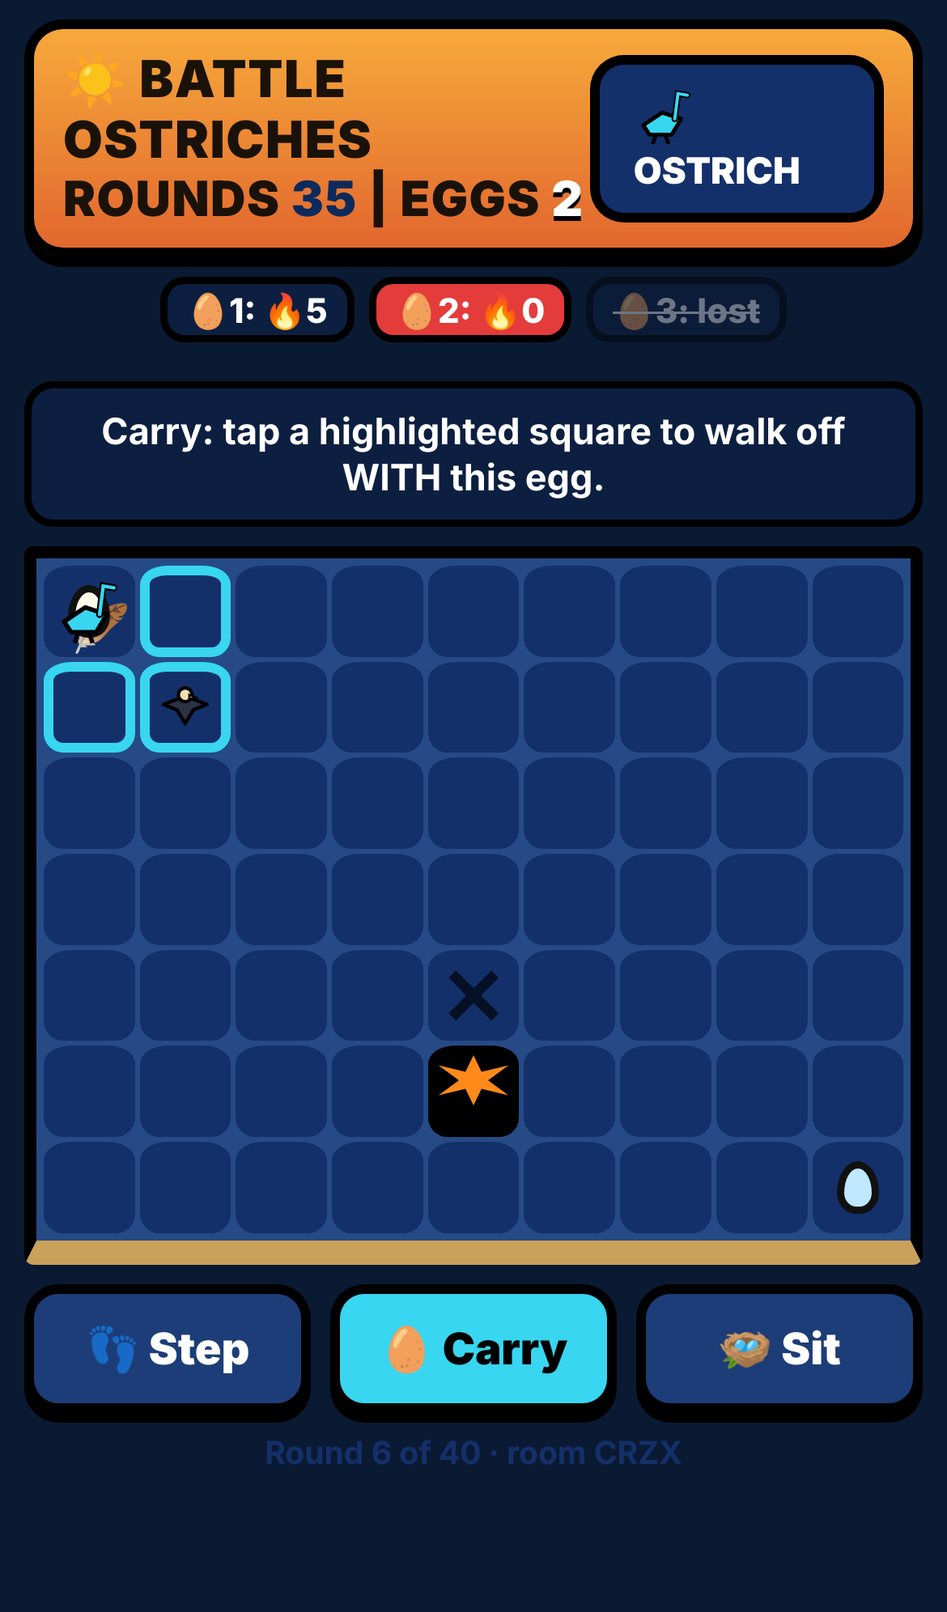
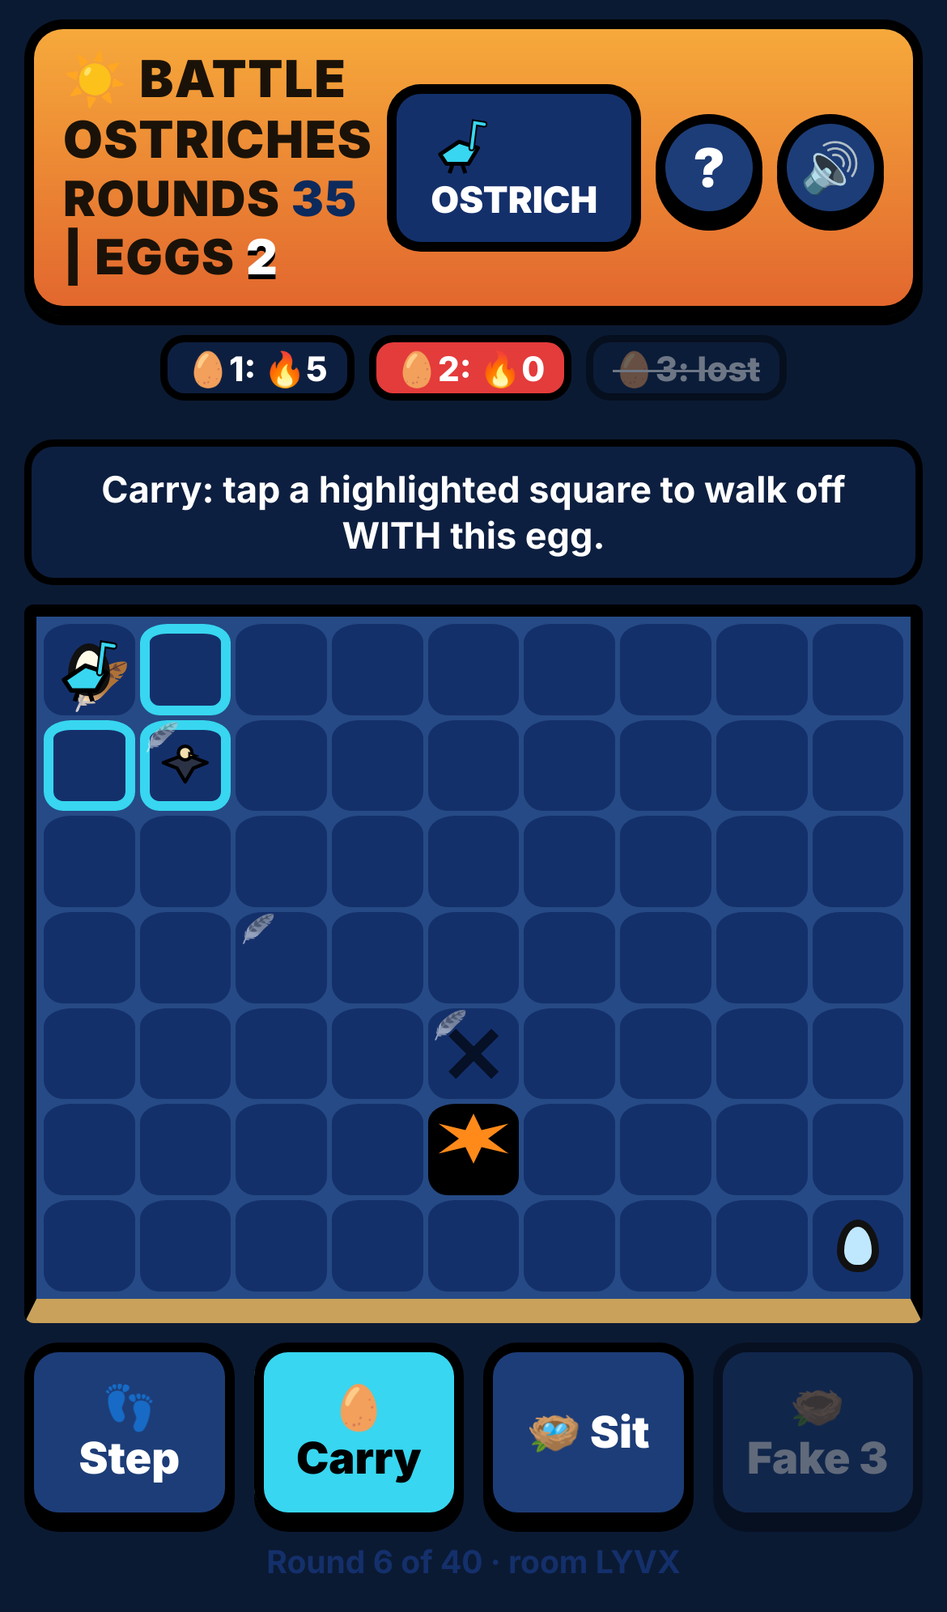
Fake nests, smell on landing, stone-free set-down, vulture tracks for ostrich; tutorial + sounds

diff --git a/public/ui.js b/public/ui.js
@@ -49,11 +49,13 @@ function sounds(prev){if(!prev)return;const blue=S.role==='blue';
  if(S.phase==='over'&&prev.phase!=='over')return SFX.play(S.winner===S.role?'win':'lose');
  if(prev.phase.startsWith('setup')&&S.phase===prev.phase&&blue)SFX.play('place');
  const la=S.lastAction;
- if(prev.turn==='red'&&S.turn==='blue'&&la&&prev.phase==='play')SFX.play(la.type==='fly'?(la.spotted?'warn':'fly'):la.result==='hit'?'crack':la.result==='feather'?'feather':'miss');
+ if(prev.turn==='red'&&S.turn==='blue'&&la&&prev.phase==='play')SFX.play(la.type==='fly'?(la.spotted?'warn':'fly'):la.result==='fake'?'scrape':la.result==='hit'?'crack':la.result==='feather'?'feather':'miss');
  if(prev.turn==='blue'&&S.turn==='red'&&prev.phase==='play')setTimeout(()=>SFX.play('step'),blue?0:0);
  if(S.lastCold&&prev.round!==S.round)setTimeout(()=>SFX.play('cold'),400);
  else if(blue&&S.myTurn&&S.eggs&&S.eggs.some(e=>e.alive&&e.coldIn<=1))setTimeout(()=>SFX.play('warn'),700);
- if(S.myTurn&&!prev.myTurn&&S.phase==='play')setTimeout(()=>SFX.play('turn'),450);}
+ if(S.myTurn&&!prev.myTurn&&S.phase==='play')setTimeout(()=>SFX.play('turn'),450);
+ if(!blue&&la&&la.type==='fly'&&prev.turn==='red'&&S.turn==='blue')setTimeout(()=>SFX.play(la.smell?'sniffYes':'sniffNo'),350);
+ if(blue&&prev.fakesLeft>S.fakesLeft)SFX.play('scrape');}
 const roomQ=new URLSearchParams(location.search).get('room');
 if(!roomQ)TUT.firstVisit();
 if(roomQ){$('codeIn').value=roomQ;open({t:'join',code:roomQ,token:me.code===roomQ.toUpperCase()?me.token:undefined});}
@@ -83,6 +85,11 @@ function render(prev){
   const m=S.marks[k];if(m)d.classList.add(m);
   if(lk.has(k)||(setup&&!eggAt[k]&&(S.phase==='setupOstrich'||k!==key(S.vulture))))d.classList.add('legal');
   const n=prints[k];if(!blue&&n&&m!=='hit'){d.style.background=`rgb(${110+n/maxP*120|0},${34+n/maxP*60|0},34)`;d.innerHTML+=`<span class="num">👣${n>1?n:''}</span>`;}
+  if(blue&&S.vtracks&&S.vtracks[k])d.innerHTML+=`<span class="vtr" style="opacity:${Math.min(1,.35+S.vtracks[k]*.2)}">🪶${S.vtracks[k]>1?S.vtracks[k]:''}</span>`;
+  if(blue&&S.nestOk&&S.nestOk.some(q=>key(q)===k))d.classList.add('nestok');
+  if(blue&&S.can&&S.can.down&&S.ostrich&&k===key(S.ostrich))d.classList.add('nestok');
+  if(blue&&(S.fakes||[]).some(f=>key(f)===k))d.innerHTML+='<span class="fakeic">🪹</span>';
+  if(!blue&&S.smells&&k in S.smells)d.innerHTML+=`<span class="smell ${S.smells[k]?'yes':'no'}">${S.smells[k]?'👃':'·'}</span>`;
   const e=eggAt[k];if(e)d.innerHTML+=`<div class="egg${e.coldIn<=2?' cold':''}"></div>`;
   if(k===key(S.vulture))d.innerHTML+=`<div class="pc" style="background:none;border:0${blue?';width:60%;height:60%':''}">${VUL}</div>`;
   if(S.ostrich&&k===key(S.ostrich))d.innerHTML+=`<div class="pc" style="background:none;border:0">${OST}${S.carrying!==null?'<span style="position:absolute;right:-4px;bottom:-4px;font-size:.6em">🥚</span>':''}</div>`;
@@ -94,18 +101,19 @@ function render(prev){
  else if(S.phase==='setupOstrich')h=blue?'Tap where your ostrich starts (on an egg to start warming it).':'The ostrich is hiding its eggs…';
  else if(S.phase==='play'&&!S.myTurn)h=blue?'Vulture\'s turn — watch the sky…':'Ostrich\'s turn — it\'s moving somewhere…';
  else if(S.phase==='play'&&blue){
-  a.innerHTML=`<button class="${M==='step'?'on':''}" onclick="UI.setMode('step')">👣 Step</button>`+(S.carrying===null?`<button ${S.can.carry?'':'disabled'} class="${M==='carry'?'on':''}" onclick="UI.setMode('carry')">🥚 Carry</button><button ${S.can.sit?'':'disabled'} onclick="UI.act('sit')">🪺 Sit</button>`:`<button ${S.can.down?'':'disabled'} onclick="UI.act('down')">⬇ Set down</button>`);
-  h=M==='carry'?'Carry: tap a highlighted square to walk off WITH this egg.':S.carrying!==null?'Carrying an egg (it is cooling). Step, or Set down here (takes your turn).':S.mustLeave?`Hungry! ${C.maxSit} rounds on this egg — step off to feed.`:S.onEgg?'On an egg (warm & safe). Sit, Carry it, or Step off.':'Step: tap a highlighted square.';
+  a.innerHTML=`<button class="${M==='step'?'on':''}" onclick="UI.setMode('step')">👣 Step</button>`+(S.carrying===null?`<button ${S.can.carry?'':'disabled'} class="${M==='carry'?'on':''}" onclick="UI.setMode('carry')">🥚 Carry</button><button ${S.can.sit?'':'disabled'} onclick="UI.act('sit')">🪺 Sit</button><button ${S.can.scrape?'':'disabled'} onclick="UI.act('scrape')">🪹 Fake ${S.fakesLeft}</button>`:`<button ${S.can.down?'':'disabled'} onclick="UI.act('down')">⬇ Set down</button>`);
+  h=M==='carry'?'Carry: tap a highlighted square to walk off WITH this egg.':S.carrying!==null?(S.can.down?'Carrying an egg (cooling). Set down here, or Step.':'Carrying an egg (cooling). A stone has hit this square: you can\'t nest here.')+' Green rings = stone-free squares where you could set it down.':S.mustLeave?`Hungry! ${C.maxSit} rounds on this egg — step off to feed.`:S.onEgg?'On an egg (warm & safe). Sit, Carry it, or Step off.':`Step: tap a highlighted square. Or scrape a fake nest here (${S.fakesLeft} left).`;
  } else if(S.phase==='play'){
   a.innerHTML=`<button class="${M==='fly'?'on':''}" onclick="UI.setMode('fly')">🪽 Fly</button><button class="${M==='throw'?'on':''}" onclick="UI.setMode('throw')">🪨 Throw</button>`;
   h=M==='fly'?`Fly up to ${C.vultureFly} squares (reveals nothing). Darker 👣 = more ostrich traffic.`:'Throw a stone at your square or a neighbour. Repeats allowed.';}
  // event line
  let ev='';const la=S.lastAction;
- if(prev&&la&&prev.turn==='red'&&S.turn==='blue'&&la.type==='throw')ev=la.result==='hit'?'💥 SMASH! An egg was broken.':la.result==='feather'?(blue?'🪶 A stone hit you — your egg was safe.':'🪶 Feathers! An ostrich was guarding an egg there.'):'✕ Stone missed.';
+ if(prev&&la&&prev.turn==='red'&&S.turn==='blue'&&la.type==='throw')ev=la.result==='fake'?(blue?'🪹 The vulture stoned one of your fake nests.':'🪹 Just an empty scrape — a fake nest!'):la.result==='hit'?'💥 SMASH! An egg was broken.':la.result==='feather'?(blue?'🪶 A stone hit you — your egg was safe.':'🪶 Feathers! An ostrich was guarding an egg there.'):'✕ Stone missed.';
  else if(prev&&la&&prev.turn==='red'&&S.turn==='blue'&&la.spotted)ev=blue?'👁 The vulture SPOTTED an egg! Sit on it or carry it away now.':'';
  else if(prev&&la&&prev.turn==='red'&&S.turn==='blue'&&blue)ev='The vulture flew.';
  if(S.lastCold&&prev&&prev.round!==S.round)ev+=` ❄ ${S.lastCold} egg(s) went cold!`;
- if(!blue&&S.myTurn&&la&&la.spotted&&S.marks[key(la.spotted)]==='spotted'&&key(la.spotted)===key(S.vulture))ev='👁 You spotted an egg right here! Throw at it now.';
+ if(!blue&&S.myTurn&&la&&la.type==='fly'&&key(S.vulture)&&prev&&prev.turn==='blue')ev=(la.fake?'🪹 This scrape is empty — a fake nest! ':'')+(la.smell?'👃 You smell eggs nearby! (within '+C.smellRange+' squares)':'· No scent here.')+(la.spotted?' 👁 And you spotted an egg right here — throw!':'');
+ if(!blue&&S.myTurn&&la&&la.spotted&&!ev&&S.marks[key(la.spotted)]==='spotted'&&key(la.spotted)===key(S.vulture))ev='👁 You spotted an egg right here! Throw at it now.';
  $('hint').textContent=h;$('log').textContent=ev||(S.phase==='play'?`Round ${S.round} of ${C.rounds} · room ${S.code}${S.opponent?'':' · opponent offline'}`:'');
  const o=$('over');if(S.phase==='over'){const won=S.winner===S.role;o.classList.remove('hidden');
   o.innerHTML=`<div class="lobbybox"><div class="bigost">${S.winner==='blue'?OST:VUL}</div><h1>${won?'You win!':'You lose'}</h1><p>${S.winner==='blue'?`The ostrich kept ${S.eggsLeft} egg(s) alive for ${C.rounds} rounds.`:`The vulture got every egg by round ${S.round}.`}</p><button class="big" onclick="UI.rematch()">Rematch</button><button class="big ghost" onclick="UI.menu()">Menu</button></div>`;}

diff --git a/game.js b/game.js
@@ -8,6 +8,10 @@ const CONFIG = {
   vultureFly: 2,       // vulture flies up to N squares (king-move distance)
   throwRange: 1,       // vulture throws at own square or within N
   vultureStart: [4, 3],
+  fakeNests: 3,        // decoy scrapes the ostrich may make per game
+  scrapeDepth: 2,      // footprint depth a scrape (fake or sat-on nest) adds
+  sitDepth: 1,         // footprint depth added each round the ostrich sits on a real egg
+  smellRange: 2,       // after landing, vulture learns if any egg is within N squares (yes/no)
 };
 const dist = (a, b) => Math.max(Math.abs(a[0] - b[0]), Math.abs(a[1] - b[1]));
 const key = (p) => p[0] + ',' + p[1];
@@ -16,7 +20,7 @@ const inB = (p, c = CONFIG) => p[0] >= 0 && p[1] >= 0 && p[0] < c.cols && p[1] <
 function newGame(cfg = CONFIG) {
   return { cfg, phase: 'setupEggs', round: 1, turn: 'blue', eggs: [], ostrich: null,
     carrying: null, sitEgg: null, sitCount: 0, vulture: cfg.vultureStart.slice(),
-    prints: {}, marks: {}, log: [], winner: null };
+    prints: {}, marks: {}, fakes: [], smells: {}, thrown: {}, vtracks: {}, log: [], winner: null };
 }
 function eggAt(g, p) { return g.eggs.find(e => e.alive && e.pos && key(e.pos) === key(p)); }
 function aliveEggs(g) { return g.eggs.filter(e => e.alive); }
@@ -52,7 +56,8 @@ function ostrichMoves(g, carry = false) {
 function canPickUp(g) { // standing on a placed egg, not carrying
   return g.phase === 'play' && g.turn === 'blue' && g.carrying === null && g.sitEgg !== null;
 }
-function canSetDown(g) { return g.phase === 'play' && g.turn === 'blue' && g.carrying !== null && !eggAt(g, g.ostrich); }
+function stoneFree(g, p) { return !g.thrown[key(p)]; }
+function canSetDown(g) { return g.phase === 'play' && g.turn === 'blue' && g.carrying !== null && !eggAt(g, g.ostrich) && stoneFree(g, g.ostrich); }
 function ostrichStep(g, p, carry = false) {
   if (carry && !canPickUp(g)) return false;
   if (!ostrichMoves(g, carry).some(q => key(q) === key(p))) return false;
@@ -69,7 +74,12 @@ function ostrichSetDown(g) {
   g.sitEgg = e.id; g.sitCount = 0; endOstrich(g); return true;
 }
 function canSit(g) { return g.phase === 'play' && g.turn === 'blue' && g.carrying === null && g.sitEgg !== null && g.sitCount < g.cfg.maxSit; }
-function ostrichSit(g) { if (!canSit(g)) return false; endOstrich(g); return true; }
+function ostrichSit(g) { if (!canSit(g)) return false; addPrint(g, g.ostrich, g.cfg.sitDepth); endOstrich(g); return true; }
+function addPrint(g, p, n) { g.prints[key(p)] = (g.prints[key(p)] || 0) + n; }
+function fakeAt(g, p) { return g.fakes.some(f => key(f) === key(p)); }
+function canScrape(g) { return g.phase === 'play' && g.turn === 'blue' && g.fakes.length < g.cfg.fakeNests && !eggAt(g, g.ostrich) && !fakeAt(g, g.ostrich) && g.carrying === null; }
+function ostrichScrape(g) { if (!canScrape(g)) return false; g.fakes.push(g.ostrich.slice()); addPrint(g, g.ostrich, g.cfg.scrapeDepth); endOstrich(g); return true; }
+function smellsEgg(g, p) { return aliveEggs(g).some(e => { const q = e.pos || (g.carrying === e.id ? g.ostrich : null); return q && dist(q, p) <= g.cfg.smellRange; }); }
 function mustLeave(g) { return g.sitEgg !== null && g.sitCount >= g.cfg.maxSit; }
 function endOstrich(g) {
   if (g.sitEgg !== null) { g.sitCount++; g.eggs[g.sitEgg].lastWarm = g.round; }
@@ -95,9 +105,12 @@ function throwTargets(g) {
 function vultureFly(g, p) {
   if (!flyTargets(g).some(q => key(q) === key(p))) return false;
   g.vulture = p.slice(); g.lastAction = { type: 'fly' };
+  g.vtracks[key(p)] = (g.vtracks[key(p)] || 0) + 1;
   // Landing on an unguarded, uncarried egg spots it. The mark stays even if the egg later moves (stale).
   const e = eggAt(g, p);
-  if (e && key(p) !== key(g.ostrich)) { g.marks[key(p)] = 'spotted'; g.lastAction.spotted = p.slice(); } g.turn = 'blue'; return true;
+  if (e && key(p) !== key(g.ostrich)) { g.marks[key(p)] = 'spotted'; g.lastAction.spotted = p.slice(); }
+  else if (!e && fakeAt(g, p)) { g.marks[key(p)] = 'fake'; g.lastAction.fake = p.slice(); }
+  const sm = smellsEgg(g, p); g.smells[key(p)] = sm; g.lastAction.smell = sm; g.turn = 'blue'; return true;
 }
 function vultureThrow(g, p) {
   if (!throwTargets(g).some(q => key(q) === key(p))) return false;
@@ -105,7 +118,9 @@ function vultureThrow(g, p) {
   const guarded = key(p) === key(g.ostrich);
   if (guarded && (e || g.carrying !== null)) result = 'feather';
   else if (e) { e.alive = false; result = 'hit'; if (g.sitEgg === e.id) { g.sitEgg = null; g.sitCount = 0; } }
+  else if (fakeAt(g, p)) result = 'fake';
   else result = 'miss';
+  g.thrown[key(p)] = (g.thrown[key(p)] || 0) + 1;
   g.marks[key(p)] = result; g.lastAction = { type: 'throw', p: p.slice(), result };
   if (!aliveEggs(g).length) { g.winner = 'red'; g.phase = 'over'; } else g.turn = 'blue';
   return result;
@@ -124,6 +139,6 @@ function endRound(g) {
 }
 function coldIn(g, e) { return g.cfg.warmth - (g.round - e.lastWarm); } // rounds left before going cold
 
-const API = { CONFIG, newGame, placeEgg, placeOstrich, ostrichMoves, ostrichStep, ostrichSetDown, canPickUp, canSit, ostrichSit,
+const API = { CONFIG, newGame, placeEgg, placeOstrich, ostrichMoves, ostrichStep, ostrichSetDown, canPickUp, canSit, ostrichSit, canScrape, ostrichScrape, fakeAt, smellsEgg, stoneFree,
   canCarryNow, canSetDown, mustLeave, flyTargets, throwTargets, vultureFly, vultureThrow, eggAt, aliveEggs, coldIn, key, dist };
 if (typeof module !== 'undefined') module.exports = API; else window.BO = API;

diff --git a/test.js b/test.js
@@ -25,4 +25,28 @@ t('fly onto unguarded egg spots it; ostrich can react; mark goes stale',()=>{con
  const h=B.newGame();B.placeEgg(h,[5,3]);B.placeEgg(h,[0,0]);B.placeEgg(h,[8,6]);B.placeOstrich(h,[5,3]);assert(B.vultureFly(h,[5,3]));assert.equal(h.marks['5,3'],undefined);
  // unreacted: throw next turn smashes it
  const k=B.newGame();B.placeEgg(k,[5,3]);B.placeEgg(k,[0,0]);B.placeEgg(k,[8,6]);B.placeOstrich(k,[0,0]);B.vultureFly(k,[5,3]);B.ostrichSit(k);assert.equal(B.vultureThrow(k,[5,3]),'hit');});
+t('fake nests: deep tracks, one per square, revealed by landing',()=>{const g=B.newGame();B.placeEgg(g,[0,0]);B.placeEgg(g,[8,6]);B.placeEgg(g,[8,0]);B.placeOstrich(g,[3,3]);
+ B.vultureFly(g,[4,1]);const before=g.prints['3,3'];assert(B.ostrichScrape(g));assert.equal(g.prints['3,3'],before+B.CONFIG.scrapeDepth);assert(!B.ostrichScrape(g),'not on vulture turn');
+ assert(B.vultureFly(g,[3,3]));assert.equal(g.marks['3,3'],'fake');assert.deepEqual(g.lastAction.fake,[3,3]);
+ assert(!B.canScrape(g),'already a fake here');assert(B.ostrichStep(g,[3,4]));});
+t('fake nest limit from CONFIG; not on egg squares',()=>{const cfg={...B.CONFIG,warmth:99};const g=B.newGame(cfg);B.placeEgg(g,[0,0]);B.placeEgg(g,[8,6]);B.placeEgg(g,[8,0]);B.placeOstrich(g,[3,3]);
+ const steps=[[3,4],[3,5],[4,5]];let made=0,r=0;
+ for(let i=0;i<8;i++){B.vultureFly(g,r++%2?[6,1]:[5,1]);if(B.ostrichScrape(g))made++;else B.ostrichStep(g,steps.shift()||[4,4]);}
+ assert.equal(made,cfg.fakeNests);
+ const h=B.newGame();B.placeEgg(h,[3,3]);B.placeEgg(h,[8,6]);B.placeEgg(h,[8,0]);B.placeOstrich(h,[3,3]);B.vultureFly(h,[5,1]);assert(!B.canScrape(h));});
+t('throw at unguarded fake reveals fake',()=>{const g=B.newGame();B.placeEgg(g,[0,0]);B.placeEgg(g,[8,6]);B.placeEgg(g,[8,0]);B.placeOstrich(g,[4,4]);
+ B.vultureFly(g,[4,2]);B.ostrichScrape(g);B.vultureFly(g,[4,3]);B.ostrichStep(g,[5,5]);assert.equal(B.vultureThrow(g,[4,4]),'fake');assert.equal(g.marks['4,4'],'fake');});
+t('smell: yes/no within range after landing, includes carried eggs',()=>{const g=B.newGame();B.placeEgg(g,[0,0]);B.placeEgg(g,[1,0]);B.placeEgg(g,[2,0]);B.placeOstrich(g,[8,6]);
+ B.vultureFly(g,[4,1]);assert.equal(g.lastAction.smell,true);assert.equal(g.smells['4,1'],true);
+ B.ostrichStep(g,[7,6]);B.vultureFly(g,[6,3]);assert.equal(g.lastAction.smell,false);assert.equal(g.smells['6,3'],false);
+ const h=B.newGame();B.placeEgg(h,[8,6]);B.placeEgg(h,[0,6]);B.placeEgg(h,[0,0]);B.placeOstrich(h,[8,6]);B.vultureFly(h,[5,4]);B.ostrichStep(h,[7,5],true);
+ B.vultureFly(h,[5,3]);assert.equal(h.lastAction.smell,true,'carried egg 2 away');});
+t('sitting deepens the nest tracks',()=>{const g=setup();const a=g.prints['0,0']||0;B.ostrichSit(g);assert.equal(g.prints['0,0'],a+1);});
+t('set down only where no stone was ever thrown',()=>{const g=setup();B.ostrichStep(g,[1,1],true);
+ B.vultureFly(g,[2,2]);assert(B.canSetDown(g));B.ostrichStep(g,[1,2]);
+ assert.equal(B.vultureThrow(g,[2,3]),'miss');B.ostrichStep(g,[2,3]);B.vultureFly(g,[3,2]);assert.equal(g.turn,'blue');assert(!B.canSetDown(g),'stone square');assert(!B.ostrichSetDown(g));
+ B.ostrichStep(g,[3,3]);B.vultureFly(g,[4,3]);assert(B.canSetDown(g));assert(!B.stoneFree(g,[2,3]));});
+t('vulture landing tracks deepen; no signal when eggs move',()=>{const g=setup();B.ostrichStep(g,[1,1],true);
+ assert.equal(g.vtracks['4,2'],1);B.vultureFly(g,[4,3]);B.ostrichStep(g,[1,2]);B.vultureFly(g,[4,2]);assert.equal(g.vtracks['4,2'],2);
+ assert.deepEqual(Object.keys(g.lastAction).sort(),['smell','type']);});
 console.log(n+' tests passed');

diff --git a/public/tutorial.js b/public/tutorial.js
@@ -9,11 +9,13 @@ const STEPS=[
  {r:'blue',img:'warmth',t:'Keep every egg warm',d:`Each egg's 🔥 timer counts down. Sit on it at least once every ${C.warmth} rounds or it goes cold and is lost. The egg you stand on can't be smashed.`},
  {r:'blue',img:'feeding',t:'Sit, then go feed',d:`Sit stays on an egg. After ${C.maxSit} rounds in a row on the same egg you get hungry and must step off.`},
  {r:'blue',img:'carry',t:'Carry an egg',d:'On an egg, tap Carry, then a square: you walk off holding it. It is safe with you but cools down. Every other turn: Step one square in any direction.'},
- {r:'blue',img:'setdown',t:'Set it down',d:'Tap Set down to place the egg on your square. It takes your whole turn. Hide it somewhere the vulture already searched! If the vulture lands on an unguarded egg it is spotted (👁): sit on it or carry it away right away.'},
+ {r:'blue',img:'setdown',t:'Set it down',d:'Tap Set down to place the egg on your square (takes your whole turn). Only squares no stone has ever hit are allowed; green rings show them. The vulture is never told an egg moved — it only has your footprints. If the vulture lands on an unguarded egg it is spotted (👁): sit on it or carry it away right away.'},
+ {r:'blue',img:'fake',t:'Scrape fake nests',d:`Tap Fake to scrape a decoy nest on your empty square (${C.fakeNests} per game). It leaves deep tracks like a real nest, so the vulture can't tell the difference until it lands on it or stones it. You see your fakes as 🪹, and grey 🪶 marks show every square the vulture has landed on (a number = repeat visits).`},
  {r:'red',img:'fly',t:'Vulture: fly',d:`Fly up to ${C.vultureFly} squares. It reveals nothing, but gets you close to where the eggs might be.`},
  {r:'red',img:'throw',t:'Vulture: throw a stone',d:'Throw at your own square or any square next to you. You may hit any square again: eggs move!'},
- {r:'red',img:'marks',t:'Read the footprints',d:'👣 Every square the ostrich crosses shows footprints, and they get deeper (darker, with a number) each time. Busy trails lead to eggs.'},
- {r:'all',img:'marks',t:'Hit, miss, feather',d:'Black square + orange burst = egg smashed. Dark ✕ = miss. 🪶 Feather = an egg was there, but the ostrich was guarding it. 👁 = egg spotted by landing on it (it may have moved since).'},
+ {r:'red',img:'smell',t:'Smell for eggs',d:`Every time you land, you sniff: 👃 "You smell eggs nearby!" means an egg is within ${C.smellRange} squares (not which one). · means no scent. The marks stay on your map.`},
+ {r:'red',img:'marks',t:'Read the footprints',d:'👣 Every square the ostrich crosses shows footprints, and they get deeper (darker, with a number) each time. Busy trails and deep nest scrapes lead to eggs… or to fakes. You are never told when an egg moves: old marks can go stale.'},
+ {r:'all',img:'marks',t:'Hit, miss, feather',d:'Black square + orange burst = egg smashed. Dark ✕ = miss. 🪶 Feather = an egg was there, but the ostrich was guarding it. 👁 = egg spotted by landing on it (it may have moved since). Dashed ring = fake nest.'},
  {r:'all',img:'warmth',t:'Who wins?',d:`The top counter shows ROUNDS left and EGGS left. The Ostrich wins if any egg survives ${C.rounds} rounds. The Vulture wins by destroying every egg.`},
 ];
 let list=[],i=0,el;

diff --git a/server.js b/server.js
@@ -26,9 +26,10 @@ function view(room, role) {
     Object.assign(v, { eggs: g.eggs.map(e => ({ pos: e.pos, alive: e.alive, coldIn: B.coldIn(g, e), carried: g.carrying === e.id })),
       ostrich: g.ostrich, carrying: g.carrying, onEgg: g.sitEgg !== null, mustLeave: B.mustLeave(g) });
     if (role === 'blue') Object.assign(v, { moves: mine ? B.ostrichMoves(g) : [], carryMoves: mine && B.canCarryNow(g) ? B.ostrichMoves(g, true) : [],
-      can: { sit: B.canSit(g), carry: B.canCarryNow(g), down: B.canSetDown(g) } });
+      can: { sit: B.canSit(g), carry: B.canCarryNow(g), down: B.canSetDown(g), scrape: B.canScrape(g) }, fakes: g.fakes, vtracks: g.vtracks, nestOk: mine && g.carrying !== null ? B.ostrichMoves(g).filter(q => B.stoneFree(g, q) && !B.eggAt(g, q)) : [], fakesLeft: g.cfg.fakeNests - g.fakes.length });
   }
-  if (role === 'red' || g.phase === 'over') Object.assign(v, { prints: g.prints });
+  if (role === 'red' || g.phase === 'over') Object.assign(v, { prints: g.prints, smells: g.smells });
+  if (g.phase === 'over') v.fakes = g.fakes;
   if (role === 'red') Object.assign(v, { fly: B.flyTargets(g), throw: B.throwTargets(g) });
   return v;
 }
@@ -43,6 +44,7 @@ function act(room, role, m) {
     if (m.a === 'carry') return B.ostrichStep(g, p, true);
     if (m.a === 'sit') return B.ostrichSit(g);
     if (m.a === 'down') return B.ostrichSetDown(g);
+    if (m.a === 'scrape') return B.ostrichScrape(g);
   } else {
     if (m.a === 'fly') return B.vultureFly(g, p);
     if (m.a === 'throw') return !!B.vultureThrow(g, p);

diff --git a/make-tut-shots.js b/make-tut-shots.js
@@ -29,5 +29,11 @@ process.env.PORT = 3998; const server = require('./server.js');
   await V.click('#actions button:has-text("Fly")'); await cell(V, 3, 3).click();
   await myTurn(A, 'Set down'); await A.waitForTimeout(150); await shot(A, 'setdown');
   await A.click('#actions button:has-text("Set down")'); await myTurn(V, 'Throw'); await V.waitForTimeout(150); await shot(V, 'marks');
+  await V.click('#actions button:has-text("Fly")'); await cell(V, 4, 1).click();
+  await myTurn(A, 'Step'); await cell(A, 2, 0).click();
+  await red('Fly', 2, 3); await myTurn(A, 'Fake'); await A.click('#actions button:has-text("Fake")');
+  await myTurn(V, 'Throw'); await V.waitForTimeout(150); await shot(V, 'smell');
+  await V.click('#actions button:has-text("Fly")'); await cell(V, 2, 1).click();
+  await myTurn(A, 'Step'); await A.waitForTimeout(150); await shot(A, 'fake');
   await b.close(); server.close(); process.exit(0);
 })().catch(e => { console.error(e); process.exit(1); });

diff --git a/public/style.css b/public/style.css
@@ -96,3 +96,10 @@ button.ghost{background:transparent}
 #muteBtn{flex:none;width:44px;height:44px;padding:0;font-size:20px;border-radius:50%;margin-left:6px}
 .cell.spotted::after{content:'👁';position:absolute;right:1px;top:-2px;font-size:.55em;z-index:3}
 .cell.spotted{box-shadow:inset 0 0 0 4px #ffd34d}
+.fakeic{position:absolute;left:2px;bottom:0;font-size:.5em;opacity:.85;z-index:3}
+.cell.fake::after{content:'';position:absolute;inset:22%;border:4px dashed #e0b46a;border-radius:50%}
+.smell{position:absolute;right:2px;bottom:0;font-size:.45em;z-index:3;border-radius:50%;padding:0 2px}
+.smell.yes{background:#ffe14d;box-shadow:0 0 0 2px #000}.smell.no{color:#fff;opacity:.6;font-size:.7em}
+.vtr{position:absolute;left:2px;top:0;font-size:.42em;z-index:3;filter:grayscale(1) brightness(1.6)}
+.cell.nestok{box-shadow:inset 0 0 0 4px #5be37a}
+.ctr{font-size:17px;white-space:nowrap}.logo{font-size:19px}

diff --git a/public/sound.js b/public/sound.js
@@ -19,6 +19,9 @@ const FX={
  fly(){for(let i=0;i<3;i++)noise(.13,{freq:700,q:.8,vol:.3,at:i*.16});},
  step(){noise(.06,{freq:250,vol:.3});noise(.06,{freq:220,vol:.25,at:.14});},
  place(){tone(300,.1,{vol:.2});tone(450,.12,{vol:.18,at:.08});},
+ scrape(){noise(.18,{freq:900,q:.6,vol:.3});noise(.18,{freq:700,q:.6,vol:.25,at:.2});},
+ sniffYes(){noise(.08,{freq:2500,q:2,vol:.2});noise(.08,{freq:2500,q:2,vol:.2,at:.12});tone(880,.2,{vol:.12,at:.25,to:1320});},
+ sniffNo(){noise(.08,{freq:2000,q:2,vol:.15});tone(330,.25,{vol:.1,at:.12,to:220});},
  turn(){tone(784,.18,{vol:.18});tone(1175,.3,{vol:.15,at:.12});},
  warn(){tone(660,.12,{type:'triangle',vol:.2});tone(660,.12,{type:'triangle',vol:.2,at:.18});},
  cold(){tone(880,.5,{type:'triangle',vol:.18,to:220});noise(.4,{freq:5000,q:.5,vol:.06});},
